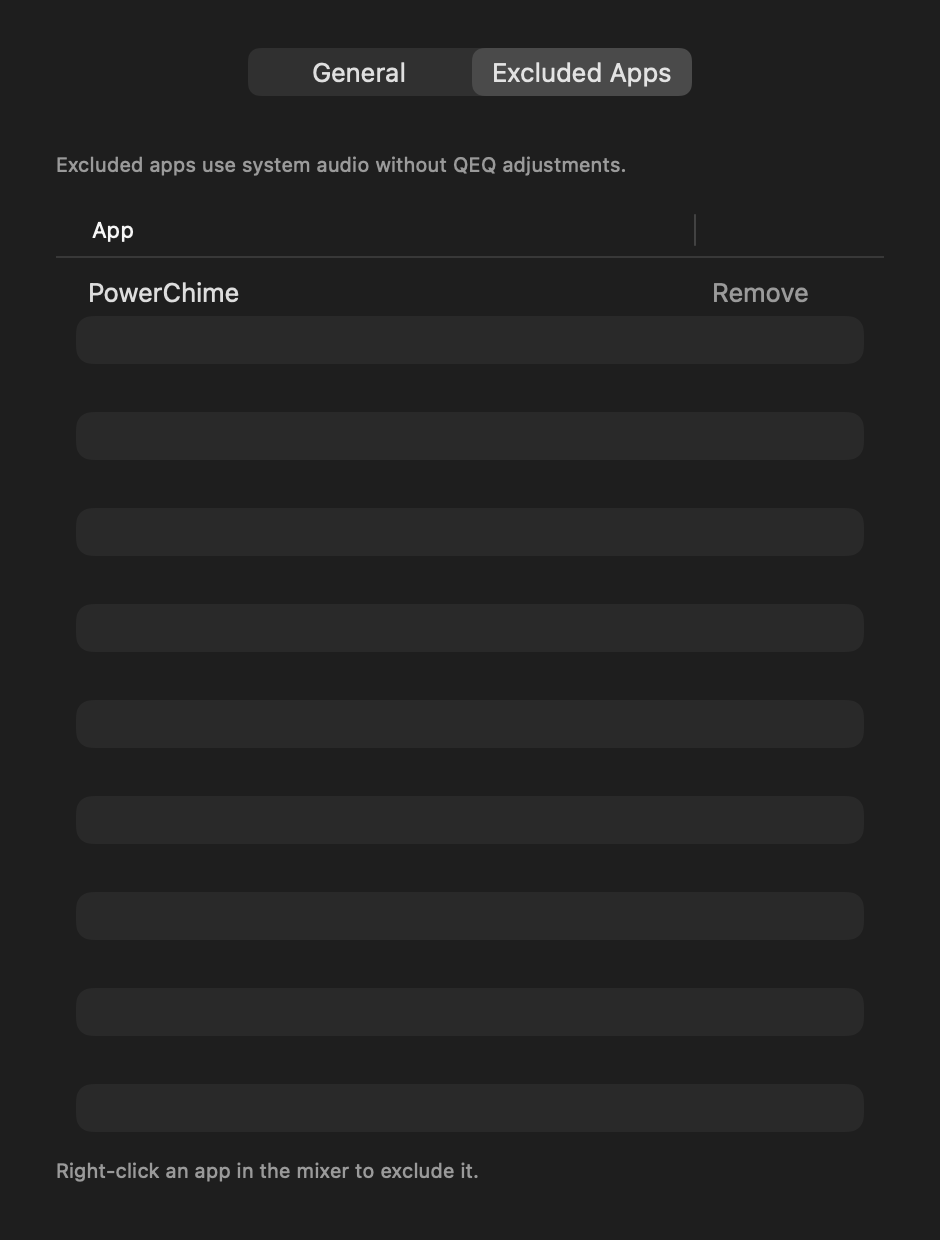
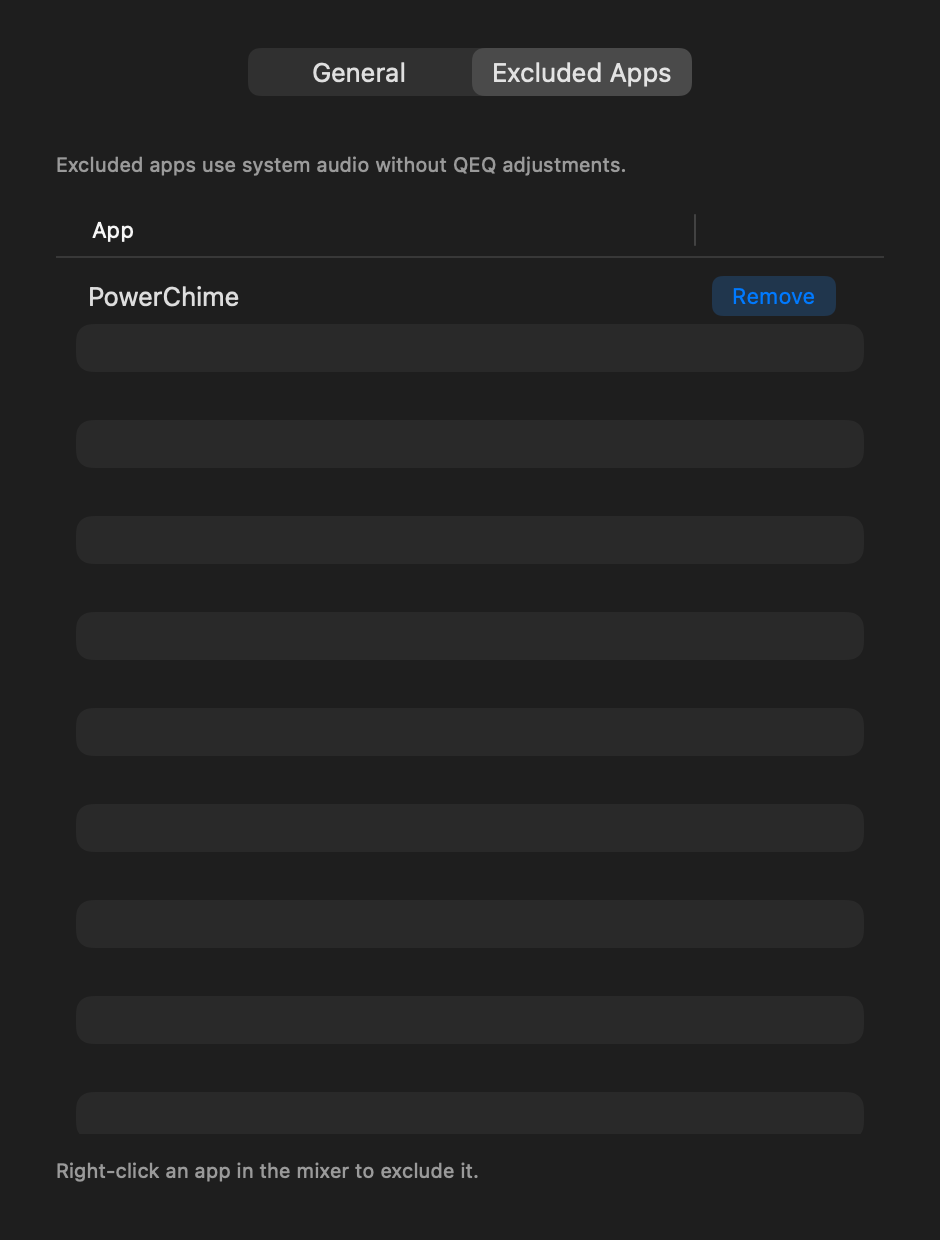
Make exclusion removal visibly actionable

Changed region(s): [[0.7404, 0.2145, 0.8947, 0.2758], [0.0926, 0.2145, 0.2468, 0.2452]]

diff --git a/QEQ/App/Sources/SettingsView.swift b/QEQ/App/Sources/SettingsView.swift
@@ -44,6 +44,8 @@ struct SettingsView: View {
                 TableColumn("App") { app in Text(app.name).help(app.id) }
                 TableColumn("") { app in
                     Button("Remove") { exclusions.remove(app.id) }
+                        .buttonStyle(.bordered).controlSize(.small)
+                        .foregroundStyle(Color.accentColor)
                         .accessibilityLabel("Remove \(app.name) from excluded apps")
                         .help("Show \(app.name) in the mixer again")
                 }.width(70)
